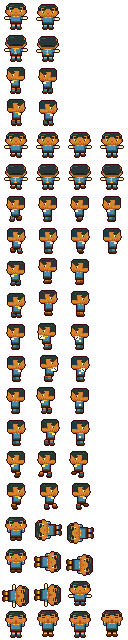
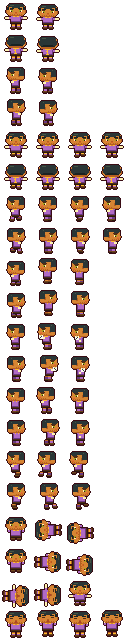
updates

diff --git a/android/app/src/main/assets/www/js/world.js b/android/app/src/main/assets/www/js/world.js
@@ -487,20 +487,26 @@ class Match {
 
   /* ---------- aturan ---------- */
   checkRules() {
-    const b = this.ball; if (b.owner) return;
-    // gawang
-    const lx = F.L, rx = F.R;
+    const b = this.ball, o = b.owner;
+    // tiang gawang: bola lepas memantul dari tiang (tidak bisa masuk dari samping)
+    if (!o) for (const gx of [F.L, F.R]) for (const py of [F.GY0, F.GY1]) {
+      const dx = b.x - gx, dy = b.y - py, d = Math.hypot(dx, dy), PR = 9;
+      if (d < PR && d > 0.01 && b.z < F.ZBAR) {
+        const nx = dx / d, ny = dy / d, vn = b.vx * nx + b.vy * ny;
+        if (vn < 0) { b.vx -= 1.6 * vn * nx; b.vy -= 1.6 * vn * ny; if (b.speed() > 60) { W.vfxSpawn(this.fx, 'Ball_Impact', b.x, b.y - 4); this.sfx('SFX_Ball_Bounce', 0.8); if (b.shot) this.msg('Tiang gawang!', G.C.gold, 1.2); } b.shot = false; b.pass = null; }
+        b.x = gx + nx * PR; b.y = py + ny * PR;
+      }
+    }
+    // gawang: harus masuk dari depan (bukan menyusur garis)
     for (const side of [-1, 1]) {
-      const gx = side < 0 ? lx : rx;
+      const gx = side < 0 ? F.L : F.R;
       const crossed = side < 0 ? b.x < gx : b.x > gx;
       if (!crossed) continue;
-      const inMouth = b.y > F.GY0 + 2 && b.y < F.GY1 - 2;
-      const nearPost = (Math.abs(b.y - F.GY0) < 6 || Math.abs(b.y - F.GY1) < 6);
-      if (b.z < F.ZBAR && nearPost && b.speed() > 50 && !b.hitPost) { b.hitPost = 1; b.vx *= -0.55; b.vy *= 0.6; b.x = gx + (side < 0 ? 2 : -2); W.vfxSpawn(this.fx, 'Ball_Impact', b.x, b.y - 4); this.sfx('SFX_Ball_Bounce', 0.8); this.msg('Tiang gawang!', G.C.gold, 1.2); b.shot = false; return; }
-      if (inMouth && b.z < F.ZBAR) { this.goal(side); return; }
-      if (b.z >= F.ZBAR && inMouth && Math.abs(b.x - gx) > 4) { /* lewat mistar */ }
+      const inMouth = b.y > F.GY0 + 4 && b.y < F.GY1 - 4;
+      if (o && o.gk) continue;
+      if (inMouth && b.z < F.ZBAR && (o || Math.abs(b.vx) > 0.2 * b.speed())) { this.goal(side); return; }
     }
-    if (Math.abs(b.x - F.L) > 3 && Math.abs(b.x - F.R) > 3) b.hitPost = 0;
+    if (o && o.gk) return;
     // keluar
     let out = null;
     if (b.y < F.T - 2 || b.y > F.B + 2) out = { t: 'throw', x: G.clamp(b.x, F.L + 8, F.R - 8), y: b.y < F.T ? F.T - 4 : F.B + 4 };

diff --git a/www/js/world.js b/www/js/world.js
@@ -487,20 +487,26 @@ class Match {
 
   /* ---------- aturan ---------- */
   checkRules() {
-    const b = this.ball; if (b.owner) return;
-    // gawang
-    const lx = F.L, rx = F.R;
+    const b = this.ball, o = b.owner;
+    // tiang gawang: bola lepas memantul dari tiang (tidak bisa masuk dari samping)
+    if (!o) for (const gx of [F.L, F.R]) for (const py of [F.GY0, F.GY1]) {
+      const dx = b.x - gx, dy = b.y - py, d = Math.hypot(dx, dy), PR = 9;
+      if (d < PR && d > 0.01 && b.z < F.ZBAR) {
+        const nx = dx / d, ny = dy / d, vn = b.vx * nx + b.vy * ny;
+        if (vn < 0) { b.vx -= 1.6 * vn * nx; b.vy -= 1.6 * vn * ny; if (b.speed() > 60) { W.vfxSpawn(this.fx, 'Ball_Impact', b.x, b.y - 4); this.sfx('SFX_Ball_Bounce', 0.8); if (b.shot) this.msg('Tiang gawang!', G.C.gold, 1.2); } b.shot = false; b.pass = null; }
+        b.x = gx + nx * PR; b.y = py + ny * PR;
+      }
+    }
+    // gawang: harus masuk dari depan (bukan menyusur garis)
     for (const side of [-1, 1]) {
-      const gx = side < 0 ? lx : rx;
+      const gx = side < 0 ? F.L : F.R;
       const crossed = side < 0 ? b.x < gx : b.x > gx;
       if (!crossed) continue;
-      const inMouth = b.y > F.GY0 + 2 && b.y < F.GY1 - 2;
-      const nearPost = (Math.abs(b.y - F.GY0) < 6 || Math.abs(b.y - F.GY1) < 6);
-      if (b.z < F.ZBAR && nearPost && b.speed() > 50 && !b.hitPost) { b.hitPost = 1; b.vx *= -0.55; b.vy *= 0.6; b.x = gx + (side < 0 ? 2 : -2); W.vfxSpawn(this.fx, 'Ball_Impact', b.x, b.y - 4); this.sfx('SFX_Ball_Bounce', 0.8); this.msg('Tiang gawang!', G.C.gold, 1.2); b.shot = false; return; }
-      if (inMouth && b.z < F.ZBAR) { this.goal(side); return; }
-      if (b.z >= F.ZBAR && inMouth && Math.abs(b.x - gx) > 4) { /* lewat mistar */ }
+      const inMouth = b.y > F.GY0 + 4 && b.y < F.GY1 - 4;
+      if (o && o.gk) continue;
+      if (inMouth && b.z < F.ZBAR && (o || Math.abs(b.vx) > 0.2 * b.speed())) { this.goal(side); return; }
     }
-    if (Math.abs(b.x - F.L) > 3 && Math.abs(b.x - F.R) > 3) b.hitPost = 0;
+    if (o && o.gk) return;
     // keluar
     let out = null;
     if (b.y < F.T - 2 || b.y > F.B + 2) out = { t: 'throw', x: G.clamp(b.x, F.L + 8, F.R - 8), y: b.y < F.T ? F.T - 4 : F.B + 4 };

diff --git a/android/app/src/main/assets/www/js/data.js b/android/app/src/main/assets/www/js/data.js
@@ -58,7 +58,7 @@ function add(p) {
   { id: 'RW', name: 'Satria', num: 7, pos: 'RW', job: 'Right Winger', maxlv: 15, base: DP + 'RW/Player_RW', bonus: [4, 0, 1, 2, 0, -2] },
   { id: 'ST', name: 'Bagas', num: 9, pos: 'ST', job: 'Striker', maxlv: 15, base: DP + 'ST/Player_ST', bonus: [0, 4, 0, 1, 0, 2] },
   { id: 'LW', name: 'Tio', num: 11, pos: 'LW', job: 'Left Winger', maxlv: 12, base: DP + 'LW/Player_LW', bonus: [3, 2, 0, 5, 0, -3] }
-].forEach(p => { p.def = true; p.away = p.id === 'GK' ? GP + 'Player_GK_opp.png' : p.base + '_away.png'; add(p); });
+].forEach(p => { p.def = true; p.away = p.id === 'GK' ? GP + 'Player_GK_opp.png' : GP + 'Opp_' + p.id + '.png'; add(p); });
 
 /* rekrutan: 3 dari paket aset + 7 varian (recolor) */
 function rec(id, name, title, rarity, pos, job, num, maxlv, startLv, passive, price, base, stats, bonus) {

diff --git a/www/js/data.js b/www/js/data.js
@@ -58,7 +58,7 @@ function add(p) {
   { id: 'RW', name: 'Satria', num: 7, pos: 'RW', job: 'Right Winger', maxlv: 15, base: DP + 'RW/Player_RW', bonus: [4, 0, 1, 2, 0, -2] },
   { id: 'ST', name: 'Bagas', num: 9, pos: 'ST', job: 'Striker', maxlv: 15, base: DP + 'ST/Player_ST', bonus: [0, 4, 0, 1, 0, 2] },
   { id: 'LW', name: 'Tio', num: 11, pos: 'LW', job: 'Left Winger', maxlv: 12, base: DP + 'LW/Player_LW', bonus: [3, 2, 0, 5, 0, -3] }
-].forEach(p => { p.def = true; p.away = p.id === 'GK' ? GP + 'Player_GK_opp.png' : p.base + '_away.png'; add(p); });
+].forEach(p => { p.def = true; p.away = p.id === 'GK' ? GP + 'Player_GK_opp.png' : GP + 'Opp_' + p.id + '.png'; add(p); });
 
 /* rekrutan: 3 dari paket aset + 7 varian (recolor) */
 function rec(id, name, title, rarity, pos, job, num, maxlv, startLv, passive, price, base, stats, bonus) {

diff --git a/android/app/src/main/assets/www/js/scenes_play.js b/android/app/src/main/assets/www/js/scenes_play.js
@@ -88,7 +88,7 @@ S.match = {
     this.p = p; this.ctl = new Controls();
     const sd = G.save.data;
     this.m = new W.Match({ home: p.home, away: p.away, half: sd.settings.half, knockout: !!p.knockout, userTeam: 0, diff: p.diff || 1 });
-    this.paused = false; this.subSel = null; this.sub = false; this.quitAsk = false; this.ended = false; this.endT = 0; this.shoot = null; this.stadium = p.stadium || 'Environment/Stadium/Stadium_Day.png';
+    this.paused = false; this.subSel = null; this.sub = false; this.quitAsk = false; this.ended = false; this.endT = 0; this.pushing = false; this.penBusy = false; this.t0 = undefined; this.shoot = null; this.stadium = p.stadium || 'Environment/Stadium/Stadium_Day.png';
     G.audio.music('BGM_Match'); this.m.msg('Kick off!', G.C.cream, 1.6);
   },
   exit() { G.audio.stop(); },

diff --git a/www/js/scenes_play.js b/www/js/scenes_play.js
@@ -88,7 +88,7 @@ S.match = {
     this.p = p; this.ctl = new Controls();
     const sd = G.save.data;
     this.m = new W.Match({ home: p.home, away: p.away, half: sd.settings.half, knockout: !!p.knockout, userTeam: 0, diff: p.diff || 1 });
-    this.paused = false; this.subSel = null; this.sub = false; this.quitAsk = false; this.ended = false; this.endT = 0; this.shoot = null; this.stadium = p.stadium || 'Environment/Stadium/Stadium_Day.png';
+    this.paused = false; this.subSel = null; this.sub = false; this.quitAsk = false; this.ended = false; this.endT = 0; this.pushing = false; this.penBusy = false; this.t0 = undefined; this.shoot = null; this.stadium = p.stadium || 'Environment/Stadium/Stadium_Day.png';
     G.audio.music('BGM_Match'); this.m.msg('Kick off!', G.C.cream, 1.6);
   },
   exit() { G.audio.stop(); },

diff --git a/tools/prepare_assets.py b/tools/prepare_assets.py
@@ -61,8 +61,24 @@ for name, src, hs, ss, hd, sd in GEN:
         recolor(base + suf + '.png', 'Characters/Generated/Player_%s%s.png' % (name, suf), m)
 
 # GK lawan: seragam olive -> biru-sage
-gk = {hexrgb('#817b1a'): hexrgb('#4a8aa5'), hexrgb('#5f521a'): hexrgb('#2d5a73')}
+gk = {hexrgb('#817b1a'): hexrgb('#b06ac4'), hexrgb('#5f521a'): hexrgb('#6a3a82')}
 recolor('Characters/Default_Players/GK/Player_GK.png', 'Characters/Generated/Player_GK_opp.png', gk)
+
+
+# seragam lawan: pixel yang berbeda antara home & away (= kostum) diganti biru-putih; rambut/kulit tetap
+KIT = {hexrgb('#ac4427'): hexrgb('#2d5a73'), hexrgb('#c64e2c'): hexrgb('#4a8aa5'), hexrgb('#b8993d'): hexrgb('#d8e6ee'), hexrgb('#ebda8d'): hexrgb('#ffffff')}
+OUT = {'RB': 'RB/Player_RB', 'CB1': 'CB/Player_CB_01', 'CB2': 'CB/Player_CB_02', 'LB': 'LB/Player_LB', 'CDM': 'CDM/Player_CDM', 'CM': 'CM/Player_CM',
+       'CAM': 'CAM/Player_CAM', 'RW': 'RW/Player_RW', 'ST': 'ST/Player_ST', 'LW': 'LW/Player_LW'}
+for pid, rel in OUT.items():
+    h = Image.open(os.path.join(A, 'Characters/Default_Players/%s.png' % rel)).convert('RGBA')
+    w = Image.open(os.path.join(A, 'Characters/Default_Players/%s_away.png' % rel)).convert('RGBA')
+    hp, wp = h.load(), w.load()
+    for y in range(h.height):
+        for x in range(h.width):
+            p, q = hp[x, y], wp[x, y]
+            if p[3] and q[3] and p[:3] != q[:3] and p[:3] in KIT:
+                hp[x, y] = KIT[p[:3]] + (p[3],)
+    h.save(os.path.join(A, 'Characters/Generated/Opp_%s.png' % pid))
 
 # manifest
 files = []
